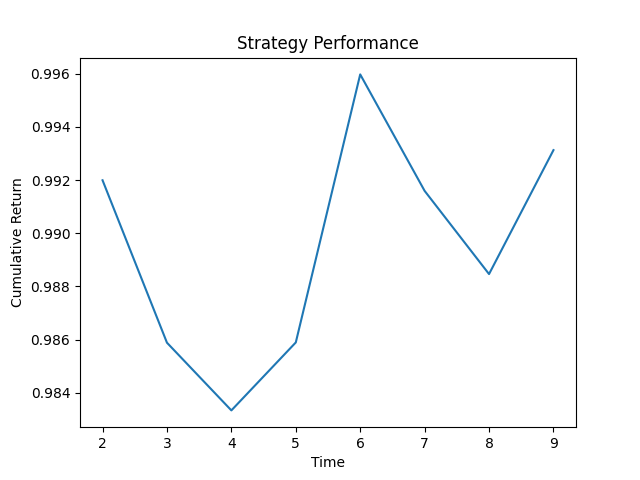
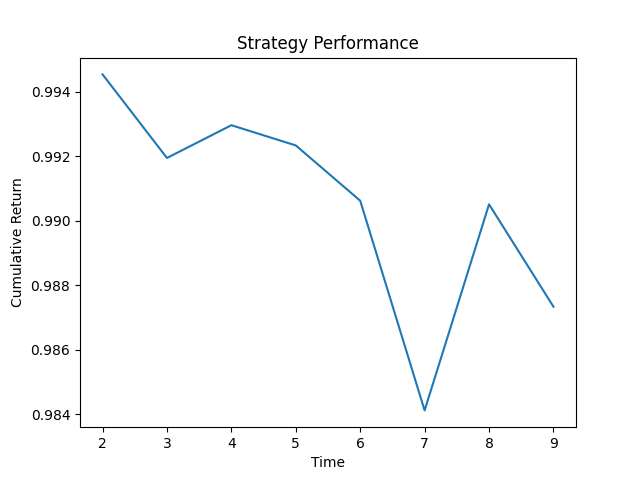
add single agent baseline

diff --git a/agents/single_agent.py b/agents/single_agent.py
@@ -1,0 +1,20 @@
+import random
+
+class SingleAgent:
+    def generate_signal(self, event):
+        # simple heuristic (no multi-step reasoning)
+
+        if "supply" in event.get("macro_thesis", "").lower():
+            signal = "LONG"
+        elif "demand" in event.get("macro_thesis", "").lower():
+            signal = "SHORT"
+        else:
+            signal = random.choice(["LONG", "SHORT", "FLAT"])
+
+        return {
+            "timestamp": event["timestamp"],
+            "event_type": event["event_type"],
+            "signal": signal,
+            "conviction": 3,
+            "horizon": "medium"
+        }

diff --git a/main.py b/main.py
@@ -8,6 +8,7 @@ from utils.analysis import analyze_conviction, analyze_event_performance
 from agents.random_agent import RandomAgent
 from agents.no_conviction_agent import NoConvictionAgent
 from agents.no_event_agent import NoEventAgent
+from agents.single_agent import SingleAgent
 
 # Load events
 with open("data/mock_data.json", "r") as f:
@@ -79,3 +80,6 @@ train_df = run_pipeline(train_events, agent)
 
 print("\n=== TEST (A3) ===")
 test_df = run_pipeline(test_events, agent)
+
+print("\n=== Single Agent Baseline ===")
+single_df = run_pipeline(events_df, SingleAgent())
